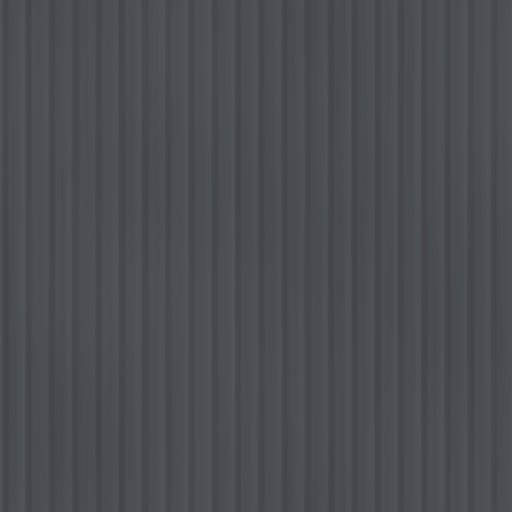
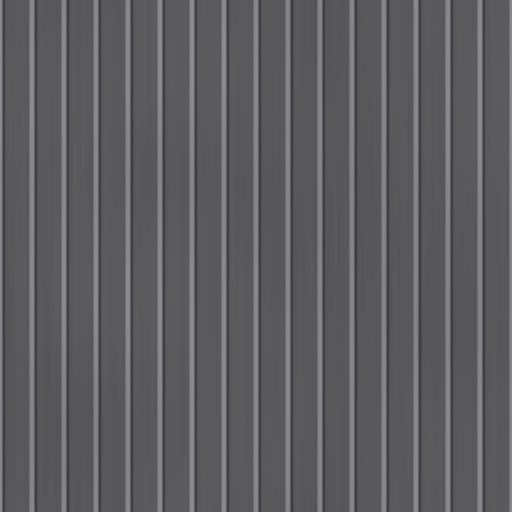
Marin textures switched on: cream / khaki stucco tints set against sunlit game shots, green and white frames, brown shingle roofs, Science Center ribbed metal and louvre skins, teal seam roof on the Athletic Center
- campus.js files.textures; pack-only colours and styles sit under ctx.TX, so ?tex=0 is still the look before
- facade kit: style.upper (closed upper storey in a keyed texture over a glazed base), band / coping / noCorner; kitWalls pieceStyle
- loader: tex rot 90; generator: metal_seam rib_color / sharp / posts; maLouvre and maSeamTeal added, unused maDeck dropped
- MAP_NOTES "Textures from references" item 10, README style options, before | after sheets in dev/shots/textures/marin/v3

Changed region(s): [[0.0, 0.0, 1.0, 1.0]]

diff --git a/src/campuses/marin/school.js b/src/campuses/marin/school.js
@@ -6,8 +6,8 @@
 // Ave), white modern boxes (Science + Innovation Center, Visual Arts), the barrel-vaulted Old Gym with its solar array
 // and the Athletic Center with its curved roof and translucent sea-green walls.
 import * as THREE from 'three';
-import { sited, atGround, onSlope, edgeGround, guardRail, terraceBlocks, ANG, UX, UZ, rect, gp, CLAY, CLAY_DARK, kitWalls, flatBuilding, hipBuilding, hipRoof, wellRoof, boxFromRect, ringLadder, wallDecal, edgeFrame, quadFacing, wallRect, fbox, ensureCCW, makeCanvas, canvasTexture, mulberry32 , hillFence , hedgeMass } from './kit.js';
-import { doorFromKit, roofUnit } from '../../world/facade.js';
+import { sited, atGround, onSlope, edgeGround, guardRail, terraceBlocks, ANG, UX, UZ, rect, gp, CLAY, CLAY_DARK, kitWalls, flatBuilding, hipBuilding, hipRoof, wellRoof, boxFromRect, ringLadder, wallDecal, edgeFrame, quadFacing, wallRect, fbox, ensureCCW, makeCanvas, canvasTexture, mulberry32 , hillFence , hedgeMass, PACK } from './kit.js';
+import { doorFromKit, roofUnit, STYLES } from '../../world/facade.js';
 import { propKit } from '../../world/props.js';
 import { paintedQuad } from '../../world/fields.js';
 import { bleachers } from '../../world/landmarks.js';
@@ -20,7 +20,7 @@ const TOP = { fosterWing: 12.0, thacher: 8.9, thacherWing: 8.3, science: 13.45, 
   leadership: 6.2 /* (floor = the Mission Ave walk, 1.6 m: at 5.8 the north wall stood in a 0.4 m cut behind a concrete block) */, leadershipEast: 5.8, library: 6.1, libraryWest: 5.7 /* (hip roofs: the eave is the LOW end of the samples, their 10th percentile) */, pac: 8.3, pacLow: 5.8, founders: 7.5 };
 
 export const SCHOOL_IDS = new Set([652917773, 652917775, 652917776, 652917777, 652917778, 652917779, 652917780, 652917781, 652917782, 652917783, 652917784, 652917785, 1460794276]);
-const FOSTER_ROOF = [1.75, 1.42, 1.18];   // weathered grey-brown shingle (Street View), as a tint of the tile texture
+const FOSTER_ROOF0 = [1.75, 1.42, 1.18];   // weathered grey-brown shingle (Street View), as a tint of the tile texture
 const ROT = -ANG;                                   // Bucket.box rotY that aligns a box with the street grid
 
 function gridBox(B, key, surface, cx, cy, cz, w, h, d, s = 1) { B.v(key).box(cx, cy, cz, w, h, d, ROT, s); if (surface) B.c(surface).box(cx, cy, cz, w, h, d, ROT); }
@@ -52,18 +52,18 @@ function fosterHall(ctx) {
   sited(ctx, main, (base) => fosterHallAt(ctx, main, TOP.fosterWing - base), { base: ctx.groundY(pc[0], pc[1]) });
 }
 function fosterHallAt(ctx, main, wingEave) {
-  const { B } = ctx; const eave = 8.8;
+  const { B } = ctx; const eave = 8.8; const FOSTER_ROOF = ctx.TX ? PACK.roofFoster : FOSTER_ROOF0, FW = STYLES.maFoster.tint, WP = ctx.TX ? 'maFosterTrim' : 'whitePanel';   // (with the texture pack: the sheet's roof and wall colours)
   // three-storey Italianate mansion (the original 1890s building) + the low north wing (one tall storey: it was drawn
   // two storeys high before the heights were measured against the ground it stands on)
   hipBuilding(ctx, main, eave, 'maFoster', { rise: 2.3, overhang: 0.95, tint: FOSTER_ROOF, roofs: [boxFromRect(-18.0, -45.3, 22.4, 19.4)] });
   // attic half-storey stepping up out of the main roof under its own hip (the stepped multi-hip silhouette)
-  { const ah = 2.5; B.v('stucco', true).setColor(0.95, 0.83, 0.5).box(-18.0, eave + 0.9 + ah / 2, -45.3, 12.6, ah, 10.2, ROT, 0.45); B.c('concrete').box(-18.0, eave + 0.9 + ah / 2, -45.3, 12.6, ah, 10.2, ROT);
+  { const ah = 2.5; B.v('stucco', true).setColor(FW[0], FW[1], FW[2]).box(-18.0, eave + 0.9 + ah / 2, -45.3, 12.6, ah, 10.2, ROT, 0.45); B.c('concrete').box(-18.0, eave + 0.9 + ah / 2, -45.3, 12.6, ah, 10.2, ROT);
     hipRoof(ctx, boxFromRect(-18.0, -45.3, 12.6, 10.2), eave + 0.9 + ah, 2.0, { overhang: 0.8, tint: FOSTER_ROOF });
     for (const a of [-3.6, 0, 3.6]) { const q = gp(-18.0, -45.3, a, 5.13); B.v('glassInt').box(q[0], eave + 2.35, q[1], 1.5, 1.1, 0.05, ROT); B.v('whitePanel').box(q[0], eave + 1.72, q[1], 1.8, 0.1, 0.12, ROT).box(q[0], eave + 2.98, q[1], 1.8, 0.1, 0.12, ROT); } }
   const wing = rect(-14.9, -66.6, 13.2, 23.4);
   hipBuilding(ctx, wing, wingEave, 'maFoster', { rise: 2.5, overhang: 0.6, tint: FOSTER_ROOF, roofs: [boxFromRect(-14.9, -66.6, 13.2, 23.4)] });
   // dormers on the south and west roof slopes
-  { const p = gp(-18.0, -45.3, 0, 7.6); B.v('stucco', true).setColor(0.95, 0.83, 0.5).box(p[0], eave + 0.95, p[1], 3.0, 1.5, 3.4, ROT, 0.45); hipRoof(ctx, boxFromRect(p[0], p[1], 3.4, 3.8), eave + 1.7, 0.9, { overhang: 0.2, noCollision: true, caps: false, tint: FOSTER_ROOF }); const q = gp(-18.0, -45.3, 0, 9.32); B.v('glassInt').box(q[0], eave + 1.0, q[1], 2.2, 1.0, 0.04, ROT); B.c('concrete').box(p[0], eave + 1.3, p[1], 3.2, 2.4, 3.6, ROT); }   // central dormer over the entrance
+  { const p = gp(-18.0, -45.3, 0, 7.6); B.v('stucco', true).setColor(FW[0], FW[1], FW[2]).box(p[0], eave + 0.95, p[1], 3.0, 1.5, 3.4, ROT, 0.45); hipRoof(ctx, boxFromRect(p[0], p[1], 3.4, 3.8), eave + 1.7, 0.9, { overhang: 0.2, noCollision: true, caps: false, tint: FOSTER_ROOF }); const q = gp(-18.0, -45.3, 0, 9.32); B.v('glassInt').box(q[0], eave + 1.0, q[1], 2.2, 1.0, 0.04, ROT); B.c('concrete').box(p[0], eave + 1.3, p[1], 3.2, 2.4, 3.6, ROT); }   // central dormer over the entrance
   B.v('stucco', true).setColor(1, 1, 1);
   // chimneys
   for (const [a, b] of [[-8.4, -4], [8.4, -4]]) { const p = gp(-18.0, -45.3, a, b); B.solidBox('brickRed', 'brick', p[0], eave + 2.2, p[1], 0.9, 3.4, 0.9, ROT, 0.5); B.v('concrete').box(p[0], eave + 3.95, p[1], 1.1, 0.12, 1.1, ROT); }
@@ -75,34 +75,34 @@ function fosterHallAt(ctx, main, wingEave) {
   { const a = gp(-18.0, -45.3, -3.5, 9.7 + dep), b = gp(-18.0, -45.3, 3.5, 9.7 + dep), c = gp(-18.0, -45.3, 3.5, 9.7 + dep + 1.1), d = gp(-18.0, -45.3, -3.5, 9.7 + dep + 1.1); quadFacing(B.c('concrete'), [a[0], py, a[1]], [b[0], py, b[1]], [c[0], 0, c[1]], [d[0], 0, d[1]], [0, 1, 0]); }
   for (let i = 0; i < 6; i++) {
     const a = -pw / 2 + 0.5 + i * (pw - 1) / 5; const p = gp(-18.0, -45.3, a, 9.7 + dep - 0.35);
-    B.v('whitePanel').box(p[0], py + (top - py) / 2, p[1], 0.42, top - py, 0.42, ROT); B.v('whitePanel').box(p[0], py + 0.2, p[1], 0.6, 0.4, 0.6, ROT).box(p[0], top - 0.12, p[1], 0.6, 0.24, 0.6, ROT);
+    B.v(WP).box(p[0], py + (top - py) / 2, p[1], 0.42, top - py, 0.42, ROT); B.v(WP).box(p[0], py + 0.2, p[1], 0.6, 0.4, 0.6, ROT).box(p[0], top - 0.12, p[1], 0.6, 0.24, 0.6, ROT);
     B.c('concrete').box(p[0], top / 2, p[1], 0.45, top, 0.45, ROT);
   }
   { // entablature + tiled shed roof
-    const e = gp(-18.0, -45.3, 0, 9.7 + dep - 0.35); B.v('whitePanel').box(e[0], top + 0.2, e[1], pw, 0.4, 0.5, ROT);
+    const e = gp(-18.0, -45.3, 0, 9.7 + dep - 0.35); B.v(WP).box(e[0], top + 0.2, e[1], pw, 0.4, 0.5, ROT);
     // wraparound: the porch returns along the west and east sides under the same brown shed roof
     for (const sd of [-1, 1]) {
       const Fs = sd < 0 ? edgeFrame(...gp(-18.0, -45.3, -11.2, 9.7 + dep), ...gp(-18.0, -45.3, -11.2, -3.6)) : edgeFrame(...gp(-18.0, -45.3, 11.2, -3.6), ...gp(-18.0, -45.3, 11.2, 9.7 + dep));
       fbox(B.v('concrete'), Fs, 0, Fs.L, 0, py, 0, dep, 1 / 3, 0, 'fst'); { const c = Fs.P(Fs.L / 2, py / 2, dep / 2); B.c('concrete').box(c[0], c[1], c[2], Fs.L, py, dep, Fs.rotY); }
       const s2 = B.v('shingles', true); s2.setColor(...FOSTER_ROOF);
       quadFacing(s2, Fs.P(-0.4, 5.3, 0), Fs.P(Fs.L + 0.4, 5.3, 0), Fs.P(Fs.L + 0.4, top + 0.42, dep + 0.5), Fs.P(-0.4, top + 0.42, dep + 0.5), [0, 1, 0], [[0, 0], [Fs.L / 3, 0], [Fs.L / 3, 1.3], [0, 1.3]]); s2.setColor(1, 1, 1);
-      quadFacing(B.v('whitePanel'), Fs.P(-0.4, top + 0.4, 0), Fs.P(Fs.L + 0.4, top + 0.4, 0), Fs.P(Fs.L + 0.4, top + 0.4, dep + 0.5), Fs.P(-0.4, top + 0.4, dep + 0.5), [0, -1, 0]);
+      quadFacing(B.v(WP), Fs.P(-0.4, top + 0.4, 0), Fs.P(Fs.L + 0.4, top + 0.4, 0), Fs.P(Fs.L + 0.4, top + 0.4, dep + 0.5), Fs.P(-0.4, top + 0.4, dep + 0.5), [0, -1, 0]);
       quadFacing(B.c('concrete'), Fs.P(-0.4, 5.3, 0), Fs.P(Fs.L + 0.4, 5.3, 0), Fs.P(Fs.L + 0.4, top + 0.42, dep + 0.5), Fs.P(-0.4, top + 0.42, dep + 0.5), [0, 1, 0]);   // the whole visible roof, end overhangs included
-      fbox(B.v('whitePanel'), Fs, -0.2, Fs.L + 0.2, top, top + 0.4, dep - 0.6, dep - 0.1, 1, 0, 'fstb');
-      for (const u of sd < 0 ? [Fs.L - 0.5, Fs.L * 0.62, Fs.L * 0.3] : [0.5, Fs.L * 0.38, Fs.L * 0.7]) { const c = Fs.P(u, 0, dep - 0.35); B.v('whitePanel').box(c[0], py + (top - py) / 2, c[2], 0.42, top - py, 0.42, ROT); B.c('concrete').box(c[0], top / 2, c[2], 0.45, top, 0.45, ROT); }
+      fbox(B.v(WP), Fs, -0.2, Fs.L + 0.2, top, top + 0.4, dep - 0.6, dep - 0.1, 1, 0, 'fstb');
+      for (const u of sd < 0 ? [Fs.L - 0.5, Fs.L * 0.62, Fs.L * 0.3] : [0.5, Fs.L * 0.38, Fs.L * 0.7]) { const c = Fs.P(u, 0, dep - 0.35); B.v(WP).box(c[0], py + (top - py) / 2, c[2], 0.42, top - py, 0.42, ROT); B.c('concrete').box(c[0], top / 2, c[2], 0.45, top, 0.45, ROT); }
       fbox(B.v('whitePanel'), Fs, sd < 0 ? Fs.L * 0.15 : 0.6, sd < 0 ? Fs.L - 0.6 : Fs.L * 0.85, py, py + 0.95, dep - 0.22, dep - 0.02, 1, 0, 'fstb');
     }
     const F = edgeFrame(...gp(-18.0, -45.3, pw / 2 + 0.4, 9.7), ...gp(-18.0, -45.3, -pw / 2 - 0.4, 9.7));
     const sh = B.v('shingles', true); sh.setColor(...FOSTER_ROOF);
     quadFacing(sh, F.P(0, 5.3, 0), F.P(F.L, 5.3, 0), F.P(F.L, top + 0.42, dep + 0.5), F.P(0, top + 0.42, dep + 0.5), [0, 1, 0], [[0, 0], [F.L / 3, 0], [F.L / 3, 1.3], [0, 1.3]]);
-    quadFacing(B.v('whitePanel'), F.P(0, top + 0.4, 0), F.P(F.L, top + 0.4, 0), F.P(F.L, top + 0.4, dep + 0.5), F.P(0, top + 0.4, dep + 0.5), [0, -1, 0]);
+    quadFacing(B.v(WP), F.P(0, top + 0.4, 0), F.P(F.L, top + 0.4, 0), F.P(F.L, top + 0.4, dep + 0.5), F.P(0, top + 0.4, dep + 0.5), [0, -1, 0]);
     quadFacing(B.c('concrete'), F.P(0, 5.3, 0), F.P(F.L, 5.3, 0), F.P(F.L, top + 0.42, dep + 0.5), F.P(0, top + 0.42, dep + 0.5), [0, 1, 0]);
     sh.setColor(1, 1, 1);
     // front door + name over it
     const Fd = edgeFrame(...gp(-18.0, -45.3, 6, 9.72), ...gp(-18.0, -45.3, -6, 9.72));
     const lift = { ...Fd, P: (u, y, o) => { const q = Fd.P(u, y, o); q[1] += py; return q; } };
     fbox(B.v('whitePanel'), Fd, 6 - 1.5, 6 + 1.5, py, py + 3.2, 0, 0.1, 1, 0, 'fst');
-    doorFromKit(ctx, { ...lift, P: (u, y, o = 0) => lift.P(u, y, o + 0.4) }, 6, { frame: 'frame', top: 'none', tint: [1, 1, 1] });
+    doorFromKit(ctx, { ...lift, P: (u, y, o = 0) => lift.P(u, y, o + 0.4) }, 6, { frame: ctx.TX ? 'maFrameWhite' : 'frame', top: 'none', tint: [1, 1, 1] });
     // name board on the porch entablature, large enough to read from the circle
     { const fa = gp(-18.0, -45.3, 5.2, 9.7 + dep - 0.08), fb = gp(-18.0, -45.3, -5.2, 9.7 + dep - 0.08); const Ff = edgeFrame(fa[0], fa[1], fb[0], fb[1]);
       fbox(B.v('whitePanel'), Ff, -0.2, Ff.L + 0.2, top + 0.02, top + 1.0, -0.1, 0.04, 1, 0, 'fstb');
@@ -138,7 +138,11 @@ function thacherHallAt(ctx, main, eave, eaveW) {
 function scienceCenter(ctx, ring) { sited(ctx, ring, (base) => scienceCenterAt(ctx, ring, TOP.science - base)); }   // parapet 13.45 m above the field: three storeys toward the field, one at the gym plaza
 function scienceCenterAt(ctx, ring, h) {
   const { B } = ctx;
-  const { roofY } = flatBuilding(ctx, ring, h, 'maModern', { units: 3 });
+  // West front (toward Foster Hall, EHDD's photos): a glazed base under a closed upper storey, charcoal ribbed metal in
+  // the middle and aluminium sunshade screens at both ends. Only with the texture pack (the skins are its textures).
+  const zs = ring.map((q) => q[1]), zN = Math.min(...zs), zS = Math.max(...zs);
+  const pieceStyle = !ctx.TX ? null : (i, p, q, a, b) => { const F = edgeFrame(a[0], a[1], b[0], b[1]); if (F.nx > -0.8 || F.L < 20) return null; const t = (zS - (p[1] + q[1]) / 2) / (zS - zN); return t > 0.36 && t < 0.74 ? 'maSciRib' : 'maSciLouvre'; };
+  const { roofY } = flatBuilding(ctx, ring, h, 'maModern', { units: 3, pieceStyle });
   // stair / mechanical penthouse and a screened plant enclosure, as on the real roof
   const p = gp(21, -50, 0.5, -2); gridBox(B, 'whitePanel', 'metal', p[0], roofY + 1.2, p[1], 9.0, 2.4, 20.0);
   (ctx.roofPads = ctx.roofPads || []).push([22, TOP.science - h + roofY + 2.5, -52]);   // hidden-helicopter pad on the penthouse roof: the deck height as built (it was a typed 15.5)
@@ -199,9 +203,12 @@ function athleticCenterAt(ctx, ring, lo, hi, base) {
   const cx = -1.6, cz = -104.2, w = 34.6, d = 35.6, n = 10;
   const yAt = (t) => lo - 0.1 + (hi - lo + 0.1) * Math.sin(t * Math.PI / 2 * 0.92) / Math.sin(Math.PI / 2 * 0.92);
   const pt = (t, b) => { const p = gp(cx, cz, -w / 2 - 0.6 + (w + 1.6) * t, b); return [p[0], yAt(t), p[1]]; };
+  const seam = !!(ctx.TX && ctx.TX.tex.maSeamTeal);
   for (let i = 0; i < n; i++) {
     const t0 = i / n, t1 = (i + 1) / n; const A = pt(t0, -d / 2 - 0.5), Bq = pt(t1, -d / 2 - 0.5), C = pt(t1, d / 2 + 0.5), Dd = pt(t0, d / 2 + 0.5);
-    quadFacing(B.v('whitePanel'), A, Bq, C, Dd, [0, 1, 0]); quadFacing(B.c('metal'), A, Bq, C, Dd, [0, 1, 0]);
+    // (texture pack: the real roof is teal standing-seam metal, seams running down the sweep; uv in metres)
+    if (seam) { const s0 = (w + 1.6) * t0, s1 = (w + 1.6) * t1, b0 = -d / 2 - 0.5, b1 = d / 2 + 0.5; quadFacing(B.v('maSeamTeal', true), A, Bq, C, Dd, [0, 1, 0], [[b0, s0], [b0, s1], [b1, s1], [b1, s0]]); } else quadFacing(B.v('whitePanel'), A, Bq, C, Dd, [0, 1, 0]);
+    quadFacing(B.c('metal'), A, Bq, C, Dd, [0, 1, 0]);
     quadFacing(B.v('panelGray'), [A[0], A[1] - 0.25, A[2]], [Bq[0], Bq[1] - 0.25, Bq[2]], [C[0], C[1] - 0.25, C[2]], [Dd[0], Dd[1] - 0.25, Dd[2]], [0, -1, 0]);
     // side infill between the wall top and the curved roof (north + south)
     for (const sgn of [-1, 1]) { const e0 = pt(t0, sgn * (d / 2 - 0.2)), e1 = pt(t1, sgn * (d / 2 - 0.2)); const nrm = [-UZ * sgn, 0, UX * sgn]; quadFacing(B.v('polyGreen'), [e0[0], lo, e0[2]], [e1[0], lo, e1[2]], [e1[0], e1[1] - 0.2, e1[2]], [e0[0], e0[1] - 0.2, e0[2]], nrm, [[t0 * 12, 0], [t1 * 12, 0], [t1 * 12, 0.5], [t0 * 12, 0.5]]); quadFacing(B.c('glass'), [e0[0], lo, e0[2]], [e1[0], lo, e1[2]], e1, e0, nrm); }
@@ -318,7 +325,7 @@ function performingArts(ctx, rings) {
   // Founders Hall: long two-storey white bar with a clay-tile mansard edge (parapet 7.4 m above the field)
   sited(ctx, rings.founders, (base) => {
     const H = TOP.founders - base; const f = flatBuilding(ctx, rings.founders, H, 'maCream', { units: 2 });
-    const fr = f.ring; const sh = B.v('shingles', true); sh.setColor(...CLAY);
+    const fr = f.ring; const sh = B.v('shingles', true); sh.setColor(...(ctx.roofTint || CLAY));
     for (let i = 0; i < fr.length; i++) { const a = fr[i], b = fr[(i + 1) % fr.length]; const F = edgeFrame(a[0], a[1], b[0], b[1]); if (F.L < 1) continue; quadFacing(sh, F.P(-0.5, H - 1.1, 0.62), F.P(F.L + 0.5, H - 1.1, 0.62), F.P(F.L, H + 0.1, 0.1), F.P(0, H + 0.1, 0.1), [F.nx, 1, F.nz], [[0, 0], [F.L / 3, 0], [F.L / 3, 0.45], [0, 0.45]]); quadFacing(B.v('whitePanel'), F.P(-0.5, H - 1.1, 0.0), F.P(F.L + 0.5, H - 1.1, 0.0), F.P(F.L + 0.5, H - 1.1, 0.62), F.P(-0.5, H - 1.1, 0.62), [0, -1, 0]); const mc = F.P(F.L / 2, H - 0.5, 0.31); B.c('concrete').box(mc[0], mc[1], mc[2], F.L + 1.0, 1.2, 0.62, F.rotY); }
     sh.setColor(1, 1, 1);
   });
@@ -468,6 +475,7 @@ export function schoolWalls(ctx) {
 export function buildSchool(ctx) {
   const { B, data } = ctx; const ring = (id) => data.buildings.find((b) => b.id === id).outer[0];
   B.v('stucco', true); B.v('brick', true); B.v('shingles', true);
+  ctx.roofTint = ctx.TX ? PACK.roof : null;   // the school's hipped roofs (kit.js hipRoof / wellRoof default); the town keeps its own
   fosterHall(ctx);
   thacherHall(ctx);
   scienceCenter(ctx, ring(652917782));
@@ -482,4 +490,5 @@ export function buildSchool(ctx) {
   // the Leadership Center's west wall stands ~2 m below the Cottage Ave sidewalk: a rail along the top of that drop
   hillFence(ctx, [gp(-12.4, 61.0, -6.9, -24.5), gp(-12.4, 61.0, -6.9, 24.5)], { h: 1.1, black: true, every: 2.0 });
   B.v('stucco', true).setColor(1, 1, 1); B.v('shingles', true).setColor(1, 1, 1); B.v('paint', true).setColor(1, 1, 1);
+  ctx.roofTint = null;
 }

diff --git a/src/campuses/marin/kit.js b/src/campuses/marin/kit.js
@@ -25,6 +25,13 @@ export const tileTint = (rgb) => { const c = srgb(...rgb); return [c[0] / TILE_A
 export const CLAY = [3.7, 2.0, 1.42];                   // weathered terracotta barrel tile
 export const CLAY_DARK = [3.0, 1.6, 1.15];
 
+// Colours that go with the generated texture pack (linear, as vertex tints of the neutral tiles: stucco mean 0.85,
+// shingle mean 0.0315). Walls: materials.json swatches, corrected in game against sunlit walls. Roofs: the aerial photo
+// of the aquatic centre shows brown composition shingle on every hipped school roof (not terracotta).
+export const PACK = {
+  foster: [0.66, 0.52, 0.27], mission: [0.68, 0.60, 0.43], founders: [0.66, 0.59, 0.41], pac: [0.70, 0.63, 0.47], visArts: [0.40, 0.33, 0.19],
+  roof: [4.6, 3.5, 2.5], roofFoster: [3.6, 3.1, 2.6],
+};
 // ------------------------------------------------------------------------------------------ materials
 function solarTexture(aniso) {
   const W = 256, H = 256, c = makeCanvas(W, H), g = c.getContext('2d');
@@ -132,6 +139,9 @@ export function addMaterials(ctx) {
     for (let k = 0; k < 5200; k++) { const x = r() * S, y = r() * S, a = (r() - 0.5) * 0.9 + (r() < 0.5 ? 0 : Math.PI / 2), l = 2 + r() * 7; const t = tones[Math.floor(r() * tones.length)], v = 0.8 + r() * 0.35; g.strokeStyle = `rgba(${t[0] * v | 0},${t[1] * v | 0},${t[2] * v | 0},${0.35 + r() * 0.5})`; g.lineWidth = 0.6 + r() * 1.2;
       for (const [ox, oy] of [[0, 0], [S, 0], [-S, 0], [0, S], [0, -S]]) { g.beginPath(); g.moveTo(x + ox, y + oy); g.lineTo(x + ox + Math.cos(a) * l, y + oy + Math.sin(a) * l); g.stroke(); } }
     M.maVerge = std({ map: canvasTexture(c, { aniso: T.aniso }), roughness: 1 }); M.maVerge.color.setRGB(0.74, 0.76, 0.72); }
+  // window / door frames of the cream buildings: dark green painted steel (Street View, the aquatic-centre photos); Foster Hall: white sashes
+  M.maFrameGreen = std({ color: 0x1f4034, roughness: 0.5, metalness: 0.25 }); M.maFrameWhite = std({ color: 0xe6e1d2, roughness: 0.55, metalness: 0.05 });
+  M.maFosterTrim = std({ color: 0xcbbc97, roughness: 0.7 });   // Foster Hall's porch posts and entablature are painted the wall cream (school site photo), only sashes and balustrade are white
   M.maFrond = std({ color: 0x3f5a2a, roughness: 0.8, side: THREE.DoubleSide });
   // facade styles for this campus (see STYLES in facade.js; tint multiplies the wall bucket's vertex colour)
   Object.assign(STYLES, {
@@ -149,6 +159,20 @@ export function addMaterials(ctx) {
     maService: { kind: 'service', bay: 5.6, frame: 'frame', top: 'stone', tint: [0.92, 0.9, 0.84] },
     maPlain: { kind: 'service', bay: 6.0, frame: 'frame', top: 'stone', tint: [0.92, 0.9, 0.84], plain: true },
   });
+  // With the generated texture pack (tools/textures/campuses/marin/materials.json; `?tex=0` = the look before it): wall
+  // tints are the sheet's swatches over the neutral stucco tile (linear mean 0.85) as corrected against sunlit walls in
+  // game screenshots, frames are the buildings' real green / white, and the Science Center wears its own skins.
+  if (ctx.TX) Object.assign(STYLES, {
+    maMission: { ...STYLES.maMission, frame: 'maFrameGreen', tint: PACK.mission },
+    maFoster: { ...STYLES.maFoster, frame: 'maFrameWhite', tint: PACK.foster },
+    maCream: { ...STYLES.maCream, frame: 'maFrameGreen', tint: PACK.founders },
+    maPac: { ...STYLES.maPac, frame: 'maFrameGreen', coping: 'maFrameGreen', tint: PACK.pac },
+    maLowCream: { ...STYLES.maLowCream, frame: 'maFrameGreen', tint: PACK.pac },
+    maVisArts: { ...STYLES.maVisArts, frame: 'maFrameGreen', band: 'maFrameGreen', coping: 'maFrameGreen', tint: PACK.visArts },
+    maModern: { ...STYLES.maModern, wall: 'maPanel' },                                                              // off-white panel end walls and field front
+    maSciRib: { ...STYLES.maModern, wall: 'maPanel', upper: 'maRibMetal', noCorner: true, bay: 3.6 },               // west front: glazed base, charcoal ribbed metal above
+    maSciLouvre: { ...STYLES.maModern, wall: 'maPanel', upper: 'maLouvre', noCorner: true, bay: 3.6 },              // ... and the aluminium sunshade screens at both ends of it
+  });
 }
 
 // Builder proxy: the facade kit asks for 'brick' / 'limestone'; hand it other buckets instead.
@@ -164,7 +188,7 @@ export const SKIN_BRICK = {};
 // Facade-kit walls around a ring. opts: skin map, parapet (flat roofs), tintJitter, rnd, noBeds
 export function kitWalls(ctx, ringIn, h, style, opts = {}) {
   const ring = ensureCCW(ringIn); const sctx = skin(ctx, opts.skin || SKIN_STUCCO); const rnd = opts.rnd || mulberry32(Math.abs(Math.round(ring[0][0] * 13 + ring[0][1] * 7)) + 3);
-  const B = ctx.B; const st = STYLES[style]; const alu = st && st.frame === 'frameAlu';
+  const B = ctx.B; const st = STYLES[style]; const alu = st && st.frame === 'frameAlu'; const coping = alu ? 'frameAlu' : (st && st.coping) || 'frame';
   const base0 = ctx.terrain && B.off ? B.off.y : 0;   // the building's datum (its lowest ground: see `sited`)
   const plan = ctx.wallPlans ? ctx.wallPlans.get(ringKey(ring)) : null;
   let u = 0;
@@ -184,10 +208,10 @@ export function kitWalls(ctx, ringIn, h, style, opts = {}) {
       const ex = ctx.terrain && st && st.kind === 'class' && h - dy > 4.8 && h - dy < 7.4 ? h - dy - 4.6 : 0; const hh = h - dy - ex;
       if (ex) ctx.onGround([p[0], p[1]], () => { const sb = sctx.B.v('brick', true); sb.setColor(st.tint[0] * 0.9, st.tint[1] * 0.9, st.tint[2] * 0.9); wallRect(sb, F, 0, F.L, 0, ex + 0.02, 0, [u * BRICK_S, 0, (u + F.L) * BRICK_S, ex * BRICK_S]); fbox(B.v('whitePanel'), F, -0.03, F.L + 0.03, ex - 0.1, ex + 0.02, 0, 0.07, 1, 0, 'fstb'); sb.setColor(1, 1, 1); }, { mode: base0 + dy });
       const run = () => {
-        facade(sctx, F, 0, hh, plain ? (opts.plainStyle || 'maPlain') : style, u, rnd);
+        facade(sctx, F, 0, hh, plain ? (opts.plainStyle || 'maPlain') : (opts.pieceStyle && opts.pieceStyle(i, p, q, a, b)) || style, u, rnd);   // pieceStyle: a wall that changes skin along its length (Science Center)
         if (opts.parapet) {
           const roofY = hh - 0.4;
-          quadFacing(B.v(alu ? 'frameAlu' : 'frame'), F.P(-0.1, hh + 0.03, 0.13), F.P(F.L + 0.1, hh + 0.03, 0.13), F.P(F.L, hh + 0.03, -0.32), F.P(0, hh + 0.03, -0.32), [0, 1, 0]);
+          quadFacing(B.v(coping), F.P(-0.1, hh + 0.03, 0.13), F.P(F.L + 0.1, hh + 0.03, 0.13), F.P(F.L, hh + 0.03, -0.32), F.P(0, hh + 0.03, -0.32), [0, 1, 0]);
           quadFacing(B.v('concrete'), F.P(0, roofY, -0.32), F.P(F.L, roofY, -0.32), F.P(F.L, hh + 0.03, -0.32), F.P(0, hh + 0.03, -0.32), [-F.nx, 0, -F.nz]);
           const pc = F.P(F.L / 2, (roofY + hh + 0.03) / 2, -0.16); B.c('concrete').box(pc[0], pc[1], pc[2], F.L, hh + 0.03 - roofY, 0.32, F.rotY);
         }
@@ -258,7 +282,7 @@ export function hipRoof(ctx, boxOrRing, eaveY, rise, opts = {}) {
   const rA = gable ? u0 : Math.min(u0 + hw, (u0 + u1) / 2), rB = gable ? u1 : Math.max(u1 - hw, (u0 + u1) / 2);
   const A = W(u0, v0, eaveY), Bp = W(u1, v0, eaveY), C = W(u1, v1, eaveY), Dd = W(u0, v1, eaveY);
   const R0 = W(rA, vc, eaveY + rise), R1 = W(rB, vc, eaveY + rise); const sl = Math.hypot(hw, rise);
-  const bucket = B.v(opts.bucket || 'shingles', true); const t = opts.tint || CLAY; if (bucket.setColor) bucket.setColor(t[0], t[1], t[2]);
+  const bucket = B.v(opts.bucket || 'shingles', true); const t = opts.tint || ctx.roofTint || CLAY; if (bucket.setColor) bucket.setColor(t[0], t[1], t[2]);
   const col = opts.noCollision ? null : B.c('concrete'); const up = [0, 1, 0];
   // opts.planeUV: texture coordinates from the face plane itself (along the eave in world metres, up the slope), so
   // faces of two intersecting roofs that lie in one plane carry the same shingles and do not shimmer (polyRoof)
@@ -308,12 +332,12 @@ export function hipRoof(ctx, boxOrRing, eaveY, rise, opts = {}) {
 
 // Roof over an arbitrary footprint (L / T / U plans): a union of closed hip roofs over the footprint's maximal
 // rectangles, see ../roofs.js. opts: tint, overhang, noCollision, fill (solid attic).
-export function polyRoof(ctx, ring, eaveY, rise, opts = {}) { return polyRoofOf(hipRoof, minAreaOBB, ctx, ring, eaveY, rise, { ...opts, tint: opts.tint || CLAY }); }
+export function polyRoof(ctx, ring, eaveY, rise, opts = {}) { return polyRoofOf(hipRoof, minAreaOBB, ctx, ring, eaveY, rise, { ...opts, tint: opts.tint || ctx.roofTint || CLAY }); }
 
 // Hip perimeter around a flat roof well (the modern clay-tile buildings: tiled slopes outside, a grey membrane deck
 // with plant inside). box as from boxFromRect; run = horizontal depth of the tiled slope. Returns the deck frame.
 export function wellRoof(ctx, box, eaveY, rise, run, opts = {}) {
-  const { B } = ctx; let { tx, tz, u0, u1, v0, v1 } = box; const ov = opts.overhang === undefined ? 0.7 : opts.overhang; const t = opts.tint || CLAY;
+  const { B } = ctx; let { tx, tz, u0, u1, v0, v1 } = box; const ov = opts.overhang === undefined ? 0.7 : opts.overhang; const t = opts.tint || ctx.roofTint || CLAY;
   const W = (u, v, y) => [u * tx - v * tz, y, u * tz + v * tx]; const top = eaveY + rise, deck = top - 0.45, k = run + ov;
   const O = [[u0 - ov, v0 - ov], [u1 + ov, v0 - ov], [u1 + ov, v1 + ov], [u0 - ov, v1 + ov]], I = [[u0 - ov + k, v0 - ov + k], [u1 + ov - k, v0 - ov + k], [u1 + ov - k, v1 + ov - k], [u0 - ov + k, v1 + ov - k]];
   const sh = B.v('shingles', true); sh.setColor(t[0], t[1], t[2]); const col = B.c('concrete'); const up = [0, 1, 0]; const sl = Math.hypot(k, rise) / 3;
@@ -344,7 +368,7 @@ export function hipBuilding(ctx, ringIn, eaveH, style, opts = {}) {
   const { B } = ctx; const ring = kitWalls(ctx, ringIn, eaveH, style, opts);
   B.c(opts.surface || 'concrete').prism(ring, 0, eaveH, 1, true);
   (ctx.buildingRings = ctx.buildingRings || []).push(ring);
-  for (const r of opts.roofs || [ring]) hipRoof(ctx, r.box || r, r.eave || eaveH, r.rise || opts.rise || 2.6, { tint: opts.tint || CLAY, overhang: opts.overhang, gable: r.gable });
+  for (const r of opts.roofs || [ring]) hipRoof(ctx, r.box || r, r.eave || eaveH, r.rise || opts.rise || 2.6, { tint: opts.tint || ctx.roofTint || CLAY, overhang: opts.overhang, gable: r.gable });
   return ring;
 }
 

diff --git a/src/world/facade.js b/src/world/facade.js
@@ -202,15 +202,16 @@ export function facade(ctx, F, y0, h, styleName, uOff, rnd, opts = {}) {
   const brick = B.v(wallKey(ctx, own), true); setTint(brick, tint);
   // generated masonry texture on this wall: openings snap to its courses (heads and sills land on a bed joint) and the
   // soldier-course lintel is one brick length tall
+  const upper = st.kind === 'modern' && st.upper && ctx.TX && ctx.TX.tex[st.upper] && ctx.TX.tex[st.upper].key ? st.upper : null;
   const wtex = texOf(ctx, ctx.wallTex || wallKey(ctx, own)); const cm = wtex && wtex.courseM ? wtex.courseM : 0; const soldier = wtex && wtex.unitM && wtex.kind === 'brick' ? wtex.unitM : 0;
   const bandH = st.top === 'panel' ? 1.15 : 0.95; const bandY = h - bandH - 0.3;
   // ---- parapet: band + coping with real thickness and drip edges
   if (st.top === 'panel') {
-    const wp = B.v('whitePanel');
+    const wp = B.v(st.band || 'whitePanel');   // (`band` / `coping`: a campus kit's own trim materials)
     fbox(wp, F, -0.04, L + 0.04, bandY, h - 0.3, 0, 0.07, 1, 0, 'fsb');
     fbox(B.v('panelGray'), F, -0.04, L + 0.04, bandY + bandH * 0.5 - 0.012, bandY + bandH * 0.5 + 0.012, 0.07, 0.09, 1, 0, 'ftb');
     for (let u = 1.2; u < L; u += 2.4) fbox(B.v('panelGray'), F, u - 0.008, u + 0.008, bandY, h - 0.3, 0.07, 0.09, 1, 0, 'fs');
-    fbox(B.v('frameAlu'), F, -0.1, L + 0.1, h - 0.3, h + 0.03, 0, 0.14, 1, 0, 'fsb');
+    fbox(B.v(st.coping || 'frameAlu'), F, -0.1, L + 0.1, h - 0.3, h + 0.03, 0, 0.14, 1, 0, 'fsb');
   } else {
     const ls = B.v('limestone');
     fbox(ls, F, -0.03, L + 0.03, bandY, h - 0.3, 0, 0.05, STONE_S, uOff, 'fsb');
@@ -235,7 +236,7 @@ export function facade(ctx, F, y0, h, styleName, uOff, rnd, opts = {}) {
   const extras = [];        // deferred detail callbacks
   const m = L > 6 ? 1.3 : 0.6;
   // corner piers: hide the razor edge where two walls meet
-  if (L > 3.2 && !st.plain) { piers.push([0.3, 0.6, 0.1]); piers.push([L - 0.3, 0.6, 0.1]); }
+  if (L > 3.2 && !st.plain && !st.noCorner) { piers.push([0.3, 0.6, 0.1]); piers.push([L - 0.3, 0.6, 0.1]); }
   const usable = L - 2 * m; const nb = Math.max(0, Math.floor(usable / st.bay)); const bay = nb ? usable / nb : 0;
   const doorBay = nb >= 1 && ((st.kind === 'gym' || st.kind === 'service') ? L > 15 : L > 26) && !st.plain ? Math.floor(nb * (0.3 + 0.4 * rnd())) : -1;
 
@@ -259,16 +260,18 @@ export function facade(ctx, F, y0, h, styleName, uOff, rnd, opts = {}) {
     for (let i = 3; i < nb; i += 4) { const u = m + i * bay + 0.48; extras.push(() => downspout(ctx, F, u, bandY - 0.4, pierOut(u))); }
   } else if (st.kind === 'modern') {
     // tall glazed bays: two storeys of glass with an insulated metal spandrel between
-    const r1 = [], r2 = []; const yA0 = 0.85, yA1 = h * 0.5 - 0.55, yB0 = h * 0.5 + 0.35, yB1 = wallTop - 0.55;
+    // (`upper`: the storey above the glazed base is one closed skin in its own generated texture: ribbed metal, a louvre screen)
+    const r1 = [], r2 = []; const yA0 = upper ? 0.56 : 0.85, yA1 = upper ? Math.min(h * 0.5 - 0.55, 3.6) : h * 0.5 - 0.55, yB0 = h * 0.5 + 0.35, yB1 = wallTop - 0.55;
     for (let i = 0; i < nb; i++) {
-      const c = m + (i + 0.5) * bay; const a = c - (bay - 1.3) / 2, b = c + (bay - 1.3) / 2;
+      const c = m + (i + 0.5) * bay; const a = c - (bay - (upper ? 0.5 : 1.3)) / 2, b = c + (bay - (upper ? 0.5 : 1.3)) / 2;
       if (i === doorBay) r1.push([c - 1.1, c + 1.1, 'door']); else r1.push([a, b, 'win', 0]);
+      if (upper) continue;
       r2.push([a, b, 'win', 1]);
       if (i !== doorBay) extras.push(() => { const sp = B.v('panelGray'); fbox(sp, F, a, b, yA1 + 0.23, yB0 - 0.11, 0, 0.03, 1, 0, 'fstb'); fbox(B.v('frameAlu'), F, a - 0.03, b + 0.03, yA1 + 0.2, yA1 + 0.23, 0, 0.05, 1, 0, 'fstb'); });
       if (st.beds && i !== doorBay) extras.push(() => bed(ctx, F, c, bay - 1.6));
     }
-    openings.push([yA0, yA1, r1]); openings.push([yB0, yB1, r2]);
-    for (let i = 2; i < nb; i += 3) { const u = m + i * bay; extras.push(() => downspout(ctx, F, u, bandY - 0.3, pierOut(u))); }
+    openings.push([yA0, yA1, r1]); if (!upper) openings.push([yB0, yB1, r2]);
+    for (let i = 2; i < nb && !upper; i += 3) { const u = m + i * bay; extras.push(() => downspout(ctx, F, u, bandY - 0.3, pierOut(u))); }
   } else if (st.kind === 'lowmod') {
     const r1 = []; const yA0 = 0.95, yA1 = Math.min(3.4, wallTop - 0.7);
     for (let i = 0; i < nb; i++) {
@@ -333,7 +336,11 @@ export function facade(ctx, F, y0, h, styleName, uOff, rnd, opts = {}) {
     brickRect(brick, F, u, L, lo, hi, uOff);
     y = hi;
   }
-  brickRect(brick, F, 0, L, y, wallTop, uOff);
+  if (upper && wallTop - y > 1.2) {
+    const ub = B.v(upper, true); setTint(ub, st.upperTint || [1, 1, 1]); const yu = y + 0.3;
+    brickRect(brick, F, 0, L, y, yu, uOff); brickRect(ub, F, 0, L, yu, wallTop, uOff, 0.04); setTint(ub, [1, 1, 1]);
+    fbox(B.v('frameAlu'), F, -0.02, L + 0.02, yu - 0.06, yu, 0, 0.09, 1, 0, 'fstb');
+  } else brickRect(brick, F, 0, L, y, wallTop, uOff);
   // ---- pilasters / corner piers (skip where they would cross an opening)
   for (const [uc, w, out] of piers) {
     const a = Math.max(0, uc - w / 2), b = Math.min(L, uc + w / 2);

diff --git a/src/world/campusTextures.js b/src/world/campusTextures.js
@@ -95,6 +95,7 @@ function fit(tex, e, uvM, offsetM) {
   // each material owns its copy of the sampler state (repeat differs with the geometry's UV scale); the image is shared
   const t = tex.clone(); t.repeat.set(uvM / e.sizeM[0], uvM / e.sizeM[1]);
   if (offsetM) t.offset.set(offsetM[0] / e.sizeM[0], offsetM[1] / e.sizeM[1]);
+  if (e.rot) t.rotation = e.rot * Math.PI / 180;   // `rot: 90`: the tile's V axis lies along the wall (horizontal ribs, louvre blades); the normal map follows (tangents come from the UVs)
   t.needsUpdate = true; return t;
 }
 

diff --git a/src/campuses/marin/campus.js b/src/campuses/marin/campus.js
@@ -24,6 +24,7 @@ export default {
     groundMask: 'campuses/marin/ground_mask.png',
     roofs: 'campuses/marin/roofs.jpg',
     surfaceClasses: 'campuses/marin/surface_classes.png',
+    textures: 'campuses/marin/tex/tex.json',   // generated building textures (tools/textures/campuses/marin/materials.json); ?tex=0 = without
   },
   sat: { minX: -330, maxX: 330, minZ: -300, maxZ: 300 },
   playBounds: { minX: -186, maxX: 182, minZ: -176, maxZ: 204 },

diff --git a/tools/textures/generate.py b/tools/textures/generate.py
@@ -256,14 +256,25 @@ def siding(sp, rng, kind):
 
 
 def metal_seam(sp, rng, kind):
+    # ribs / seams run along V (the tile's height): give the texture `rot: 90` when they are horizontal on the building.
+    # `rib_color` + `sharp` draw the rib as its own flat-topped strip (louvre blades in front of dark glass, the pale
+    # highlight line of a ribbed panel); `posts` = [spacing, width] adds members across the ribs (louvre carriers).
     s = sp['seam']; W = fit(sp['size_m'][0], s); H = sp['size_m'][1]; pw, ph = sp.get('px', [512, 512]); px = (W / pw, H / ph)
     t = (np.arange(pw) + 0.5) * px[0]; dd = np.abs(np.mod(t + s / 2, s) - s / 2)
-    rib = np.clip(1 - dd / max(sp.get('rib', 0.012), 1.5 * px[0]), 0, 1)[None, :].repeat(ph, 0)
+    rib = np.clip((1 - dd / max(sp.get('rib', 0.012), 1.5 * px[0])) * sp.get('sharp', 1.0), 0, 1)[None, :].repeat(ph, 0)
     oil = noise((ph, pw), 0.25 / px[0], rng); streak = noise((ph, pw), 0, rng, aniso=(60, 1.2))
     h = sp.get('rib_h', 0.03) * rib + 0.0006 * oil
     shade = np.clip(np.roll(rib, 3, 1) - rib, 0, 1)                    # the rib's shadow on the pan beside it
-    col = np.asarray(sp['color'], np.float32)[None, None, :] * (1 + 0.03 * oil[..., None] + sp.get('streak', 0.03) * streak[..., None]) * (1 + 0.12 * rib[..., None]) * (1 - 0.4 * shade[..., None])
-    return col, h, (W, H), {'altM': [round(s * max(1, round(W / s / 2)), 4), round(H * 0.41, 4)]}
+    base = np.asarray(sp['color'], np.float32)[None, None, :] * (1 + 0.03 * oil[..., None] + sp.get('streak', 0.03) * streak[..., None])
+    if sp.get('rib_color'): col = base * (1 - rib[..., None]) + np.asarray(sp['rib_color'], np.float32)[None, None, :] * rib[..., None] * (1 + 0.04 * oil[..., None])
+    else: col = base * (1 + 0.12 * rib[..., None])
+    col = col * (1 - sp.get('shade', 0.4) * shade[..., None])
+    if sp.get('posts'):
+        ps, pwid = sp['posts']; n = max(1, int(round(H / ps))); y = (np.arange(ph) + 0.5) * px[1]; per = H / n
+        pm = np.clip(1 - (np.abs(np.mod(y + per / 2, per) - per / 2) - pwid / 2) / max(1.2 * px[1], 0.004), 0, 1)[:, None].repeat(pw, 1)
+        col = col * (1 - pm[..., None]) + np.asarray(sp.get('post_color', sp.get('rib_color', sp['color'])), np.float32)[None, None, :] * pm[..., None] * (0.8 + 0.2 * rib[..., None])
+        h = np.maximum(h, sp.get('rib_h', 0.03) * 0.8 * pm)
+    return col, h, (W, H), {'altM': [round(s * max(1, round(W / s / 2)), 4), round(H * (0.5 if sp.get('posts') else 0.41), 4)]}
 
 
 def clay_tile(sp, rng, kind):
@@ -319,7 +330,7 @@ KINDS = {'brick': masonry, 'block': masonry, 'pavers': masonry, 'panels': masonr
          'shingle_siding': siding, 'board_batten': siding, 'metal_seam': metal_seam, 'clay_tile': clay_tile, 'asphalt_shingle': asphalt_shingle,
          'court': court, 'planks': planks}
 RUNTIME_KEYS = ('key', 'uvM', 'roughness', 'metalness', 'normalScale', 'tint', 'vertexColors', 'doubleSide', 'weather', 'like', 'offsetM', 'polygonOffset', 'envMapIntensity', 'notes',
-                'alt', 'macro', 'micro', 'roughVar', 'streaks')
+                'alt', 'macro', 'micro', 'roughVar', 'streaks', 'rot')
 
 
 def build(name, sp, out_dir, preview=None):

diff --git a/MAP_NOTES.md b/MAP_NOTES.md
@@ -249,6 +249,30 @@ Hinsdale, Hamilton, Marin and Branson all had to be gone over again because they
    - **Frame time**: `__bench` in a hidden pane on a machine shared with other agents is +-1 ms noise. A/B inside
      one tab (toggle the uniform, e.g. `material.userData.txSurface.uAlt.value.z`), interleave the runs and take the
      minimum. The second tile sample is now taken only where the cross-fade needs it (`textureGrad`, so mips match).
+10. **Marin v3 lessons (switching on a pack of pale stucco, metal and shingle).**
+   - **An override of a tinted tile changes almost nothing by itself.** Marin's pack (neutral stucco + neutral shingle
+     with the old means) rendered within 2 sRGB levels of `?tex=0`. The look comes from the TINTS, the trim and the
+     roofs: budget the work there, and make every pack-only colour conditional on `ctx.TX` so `?tex=0` stays the true
+     "before" in the same build.
+   - **Pale walls: calibrate, do not divide.** `swatch / tile mean` put cream stucco at 218/215/212 in the sun (white:
+     the tone curve flattens everything above ~0.6 albedo and the sky fill takes the yellow out). Multiply the wall
+     material's `color` in the console by three trial factors, shoot one sunlit and one shaded wall straight on (ray
+     from outside to the wall, camera 9 m back along its normal, median of the modal-luminance pixels) and interpolate:
+     the Library's measured [0.66, 0.60, 0.52] needs a tint of [0.68, 0.60, 0.43] (albedo [0.58, 0.51, 0.37]) to read
+     211/207/196 sunlit. Going further (albedo 0.50/0.42/0.27) matches the sunlit swatch better and turns every wall
+     the sun grazes mustard: check the east and north walls before settling.
+   - **Read the roofs from an aerial, not from the style.** Mission-style cream buildings were given terracotta; the
+     aquatic-centre aerial shows brown composition shingle on all of them and a teal standing-seam Athletic Center.
+     One oblique drone photo fixes more of the helicopter view than any wall texture.
+   - **Frames and trim are part of the material sheet.** Dark green sashes on the cream buildings, white on Foster Hall
+     and porch posts painted the WALL colour (not white) are what make them recognisable; a style takes `frame`, `band`
+     and `coping` material keys from the campus kit.
+   - **A facade that changes skin along its length** (Science Center: louvre screen | ribbed metal | louvre screen over a
+     glazed base) is a per-piece style (`kitWalls` `pieceStyle`) plus `upper: '<keyed texture>'` on a 'modern' style;
+     horizontal ribs are the vertical-seam tile with `rot: 90` in the sheet (the loader rotates the sampler, UVs stay
+     in metres). Dark metal: metalness <= 0.25, or a shaded wall mirrors the sky and reads navy.
+   - **Do not ship what nothing uses**: the deck tile had no deck to go on; it came out of the sheet (the loader fetches
+     every texture a manifest lists).
 
 ## Map check (required before QA)
 

diff --git a/tools/textures/README.md b/tools/textures/README.md
@@ -62,6 +62,11 @@ Python: `numpy`, `pillow`, `scipy` (a venv is fine). Run everything from the rep
 - `uvM` = metres per UV unit of the geometry (facade kit 2.2, limestone 3.0, roofs 3.0). The loader sets
   `repeat = uvM / sizeM`, so a course is exactly `courseM` tall everywhere. Facade-kit walls on a generated masonry
   texture snap sills and heads to its courses and make soldier lintels one brick tall.
+- Style options for a campus kit (src/world/facade.js): `frame`, `band`, `coping` = material keys for sashes / doors, the
+  panel band and the coping; `upper: '<key>'` on a 'modern' style = a closed upper storey in that keyed texture over a
+  glazed base; `noCorner` drops the corner piers. `rot: 90` on a texture spec lays a vertical-seam tile horizontally
+  (ribbed metal, louvre blades: `metal_seam` with `rib_color`, `sharp`, `posts`). Pack-only tints and styles are set
+  under `if (ctx.TX)` so `?tex=0` is still the look before the pack (Marin: `PACK` in src/campuses/marin/kit.js).
 - Corners: the facade kit carries `uOff` round the ring, so bond and courses continue across returns. Never scale a
   texture to fit a wall; change the wall (or the snap) instead.
 - No visible repetition: tiles are 2-5 m with low frequencies flattened, and every material with `weather: [grime,
